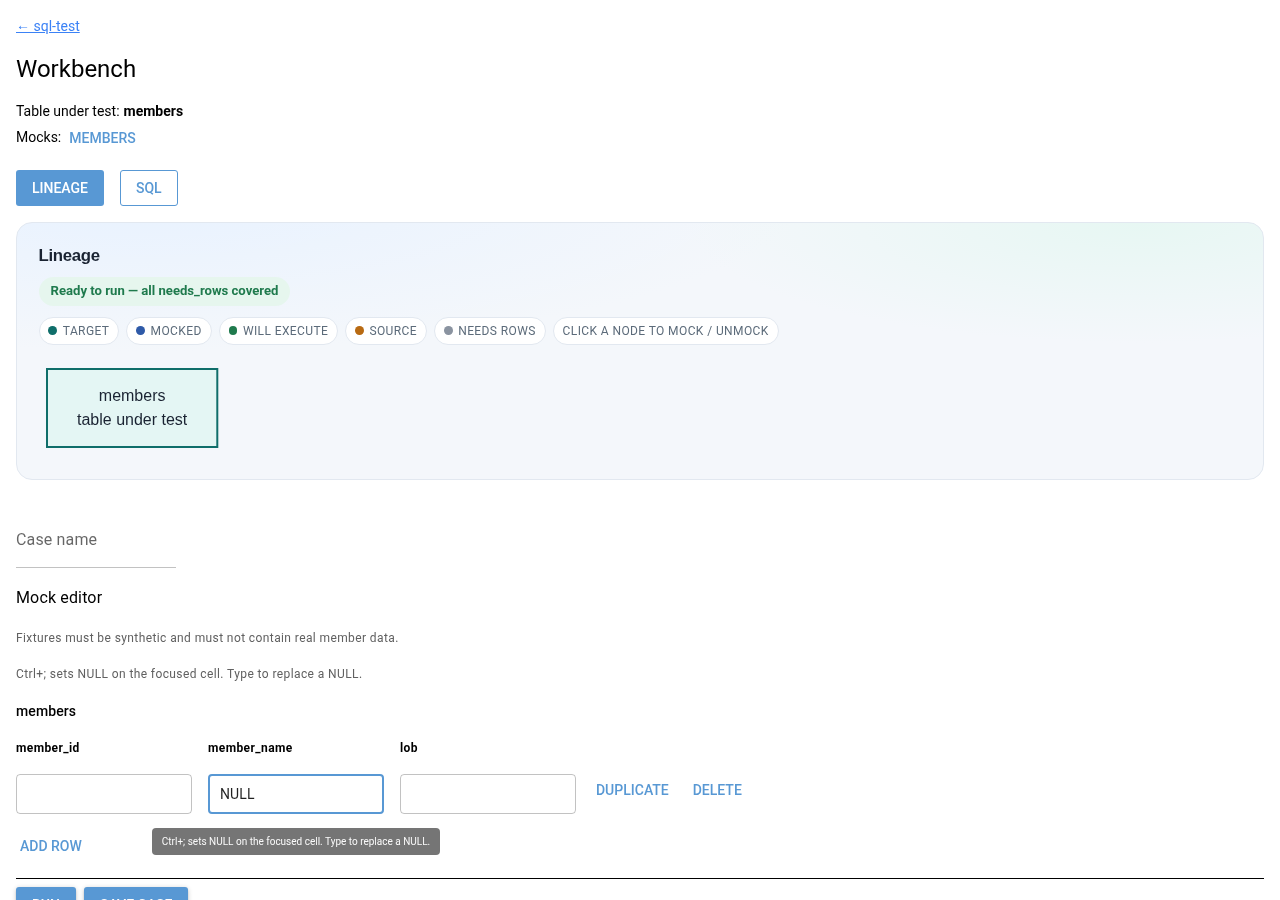
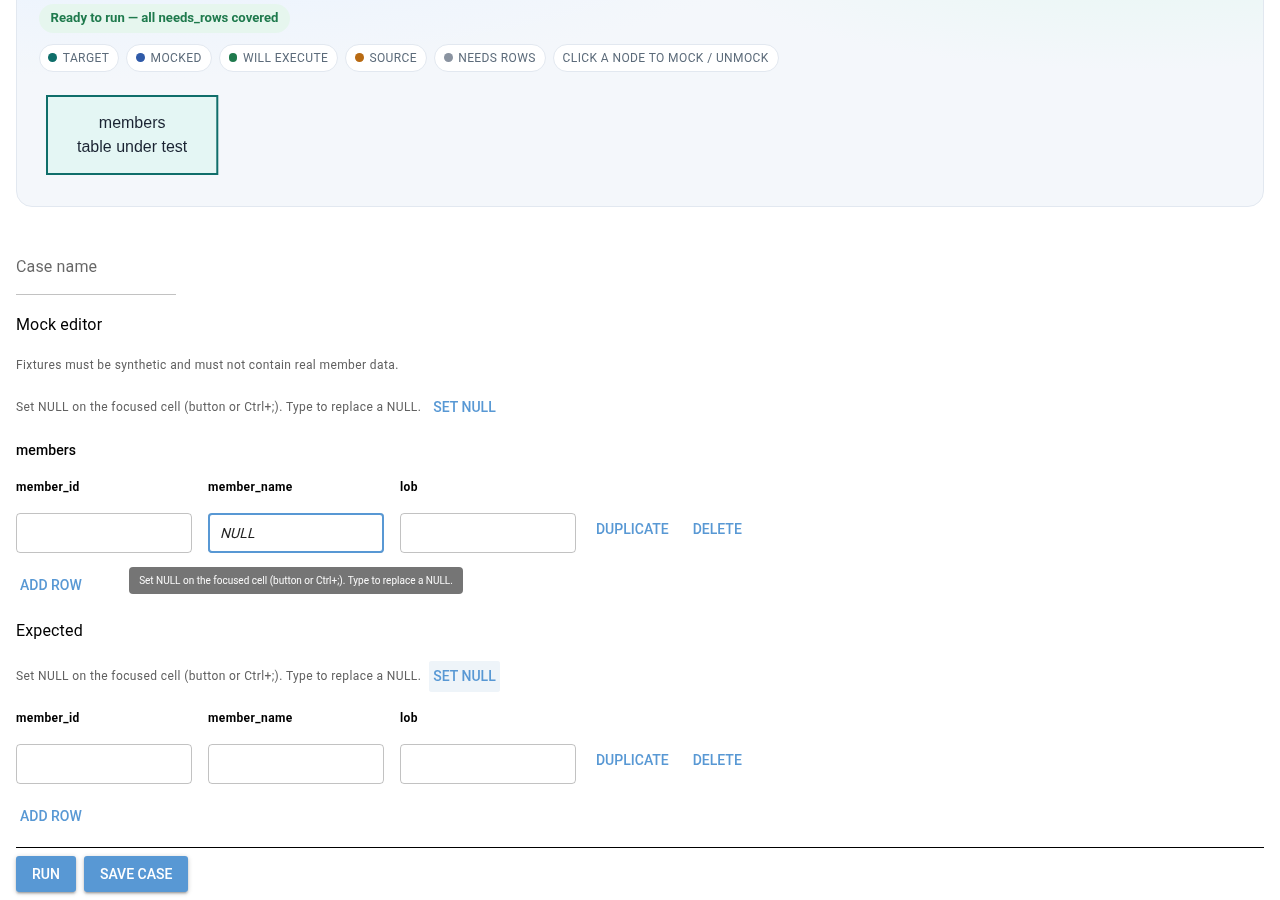
APP-31: rebuild the grid to show NULL (same path as Run)
In-place Quasar updates never painted in the real browser. Setting NULL
now rebuilds the grids so the cell is created with value NULL.

diff --git a/src/sql_test/integrations/app/grid_view.py b/src/sql_test/integrations/app/grid_view.py
@@ -125,15 +125,14 @@ def _null_hint_row(state: WorkbenchState, actions: EditorActions) -> None:
 def _set_null_on_focused(state: WorkbenchState, actions: EditorActions) -> None:
     cell = state.focused_cell
     if cell is None:
-        ui.notify("Focus a grid cell first", type="warning")
+        ui.notify("Click a grid cell first", type="warning")
         return
     table, index, key = cell
-    field = state.cell_fields.get(cell)
     rows = state.grid_rows.get(table) or []
-    if field is None or index >= len(rows) or not isinstance(field, ui.input):
-        ui.notify("Focus a grid cell first", type="warning")
+    if index >= len(rows):
+        ui.notify("Click a grid cell first", type="warning")
         return
-    _set_null(rows[index], key, actions, field=field, table=table, index=index)
+    _set_null(rows[index], key, actions, state=state, table=table, index=index)
 
 
 def grid_view(
@@ -214,12 +213,6 @@ def _cell(
             field.classes(add="text-italic")
         fields[(index, key)] = field
         state.cell_fields[(table, index, key)] = field
-        field.on(
-            "focus",
-            lambda _, table=table, index=index, key=key: setattr(
-                state, "focused_cell", (table, index, key)
-            ),
-        )
         if state.grid_focus == (table, index, key):
             field.classes(add="grid-focus")
             field.run_method("focus")
@@ -251,18 +244,21 @@ def _cell(
                 reverse=True,
             ),
         )
-        set_null = lambda _, row=row, key=key, field=field, table=table, index=index: (
-            _set_null(row, key, actions, field=field, table=table, index=index)
+        remember = lambda _, table=table, index=index, key=key: setattr(
+            state, "focused_cell", (table, index, key)
+        )
+        field.on("focus", remember)
+        field.on("click", remember)
+        set_null = lambda _, row=row, key=key, table=table, index=index: _set_null(
+            row, key, actions, state=state, table=table, index=index
         )
         # Chord for User tests; one JS keydown for browser Ctrl/Cmd+; and type-to-leave.
         field.on("keydown.ctrl.exact.;.prevent", set_null)
         field.on("keydown.meta.exact.;.prevent", set_null)
         field.on(
             "keydown",
-            lambda event, row=row, key=key, field=field, table=table, index=index: (
-                _cell_keydown(
-                    event, row, key, actions, field=field, table=table, index=index
-                )
+            lambda event, row=row, key=key, table=table, index=index: _cell_keydown(
+                event, row, key, actions, state=state, table=table, index=index
             ),
             js_handler=_CELL_KEYDOWN_JS,
         )
@@ -367,22 +363,19 @@ def _set_null(
     column: str,
     actions: EditorActions,
     *,
-    field: ui.input,
+    state: WorkbenchState,
     table: str,
     index: int,
 ) -> None:
-    """Ctrl+; only sets NULL; leave NULL by typing (empty string stays "")."""
+    """Ctrl+; / Set NULL only sets NULL; leave NULL by typing ("" stays "")."""
     if column in row and row[column] is None:
         return
     row[column] = None
-    # Show the word NULL inside the input (model stays None). In-place only —
-    # rebuilding mid-keydown leaves the browser blank until Run.
-    field.props("readonly")
-    field.classes(add="text-italic")
-    field.set_value(_NULL_DISPLAY)
-    field.mark(f"cell-{table}.{index}.{column} null-{table}.{index}.{column}")
-    field.update()
-    ui.notify("NULL", type="info", position="top")
+    # Rebuild the grids (same path as Run). In-place Quasar updates do not paint
+    # reliably in the real browser; recreating the cell with value "NULL" does.
+    state.grid_focus = (table, index, column)
+    state.focused_cell = (table, index, column)
+    actions.on_rebuild()
 
 
 def _cell_keydown(
@@ -391,13 +384,13 @@ def _cell_keydown(
     column: str,
     actions: EditorActions,
     *,
-    field: ui.input,
+    state: WorkbenchState,
     table: str,
     index: int,
 ) -> None:
     args = getattr(event, "args", None)
     if isinstance(args, dict) and args.get("op") == "null":
-        _set_null(row, column, actions, field=field, table=table, index=index)
+        _set_null(row, column, actions, state=state, table=table, index=index)
         return
     if isinstance(args, dict) and args.get("op") == "type":
         _clear_null_on_type({"key": args.get("key")}, row, column, actions)

diff --git a/tests/test_app.py b/tests/test_app.py
@@ -560,8 +560,7 @@ async def test_set_null_button_paints_null_on_focused_cell(user: User):
     _register(FIXTURE)
     await user.open("/workbench?target=members&view=lineage&mock=members")
     user.find(marker="cell-members.0.member_name").type("Ada")
-    # Focus records focused_cell for the button.
-    user.find(marker="cell-members.0.member_name").trigger("focus")
+    user.find(marker="cell-members.0.member_name").trigger("click")
 
     user.find(marker="set-null").click()
 
